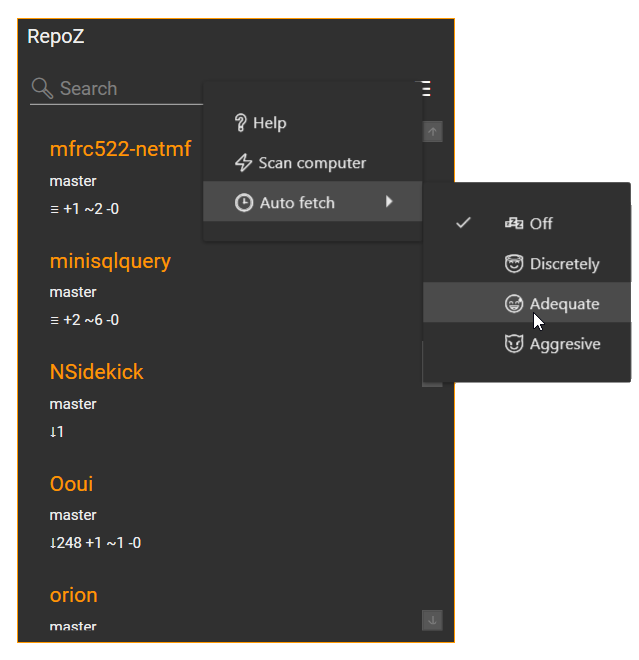
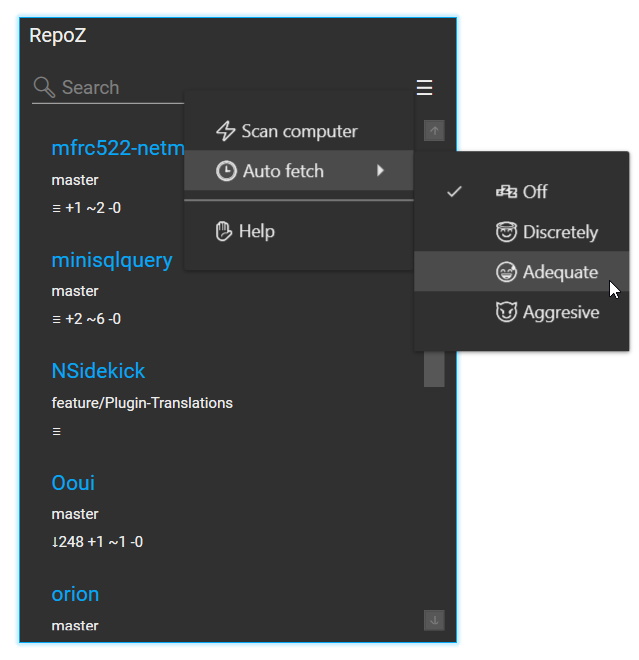
Tint RepoZ in blue & update screenshots

diff --git a/RepoZ.App.Win/App.xaml b/RepoZ.App.Win/App.xaml
@@ -30,8 +30,8 @@
 				<!--<ResourceDictionary Source="pack://application:,,,/MaterialDesignThemes.Wpf;component/Themes/MaterialDesignTheme.Light.xaml" />-->
 				<ResourceDictionary Source="pack://application:,,,/MaterialDesignThemes.Wpf;component/Themes/MaterialDesignTheme.Dark.xaml" />
 				<ResourceDictionary Source="pack://application:,,,/MaterialDesignThemes.Wpf;component/Themes/MaterialDesignTheme.Defaults.xaml" />
-				<ResourceDictionary Source="pack://application:,,,/MaterialDesignColors;component/Themes/Recommended/Primary/MaterialDesignColor.Orange.xaml" />
-				<ResourceDictionary Source="pack://application:,,,/MaterialDesignColors;component/Themes/Recommended/Accent/MaterialDesignColor.Orange.xaml" />
+				<ResourceDictionary Source="pack://application:,,,/MaterialDesignColors;component/Themes/Recommended/Primary/MaterialDesignColor.LightBlue.xaml" />
+				<ResourceDictionary Source="pack://application:,,,/MaterialDesignColors;component/Themes/Recommended/Accent/MaterialDesignColor.LightBlue.xaml" />
 
 				<!-- Material Design: MahApps Compatibility -->
 				<ResourceDictionary Source="pack://application:,,,/MaterialDesignThemes.MahApps;component/Themes/MaterialDesignTheme.MahApps.Fonts.xaml" />
